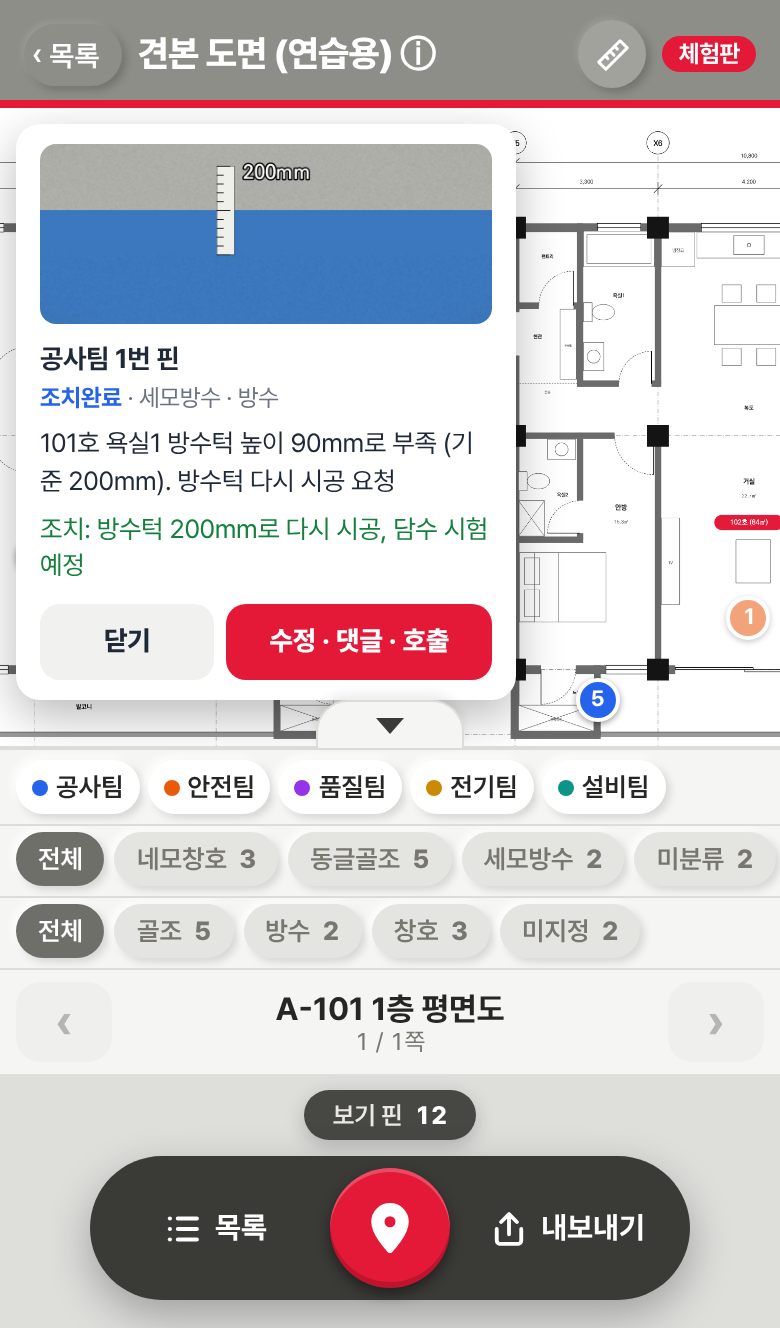
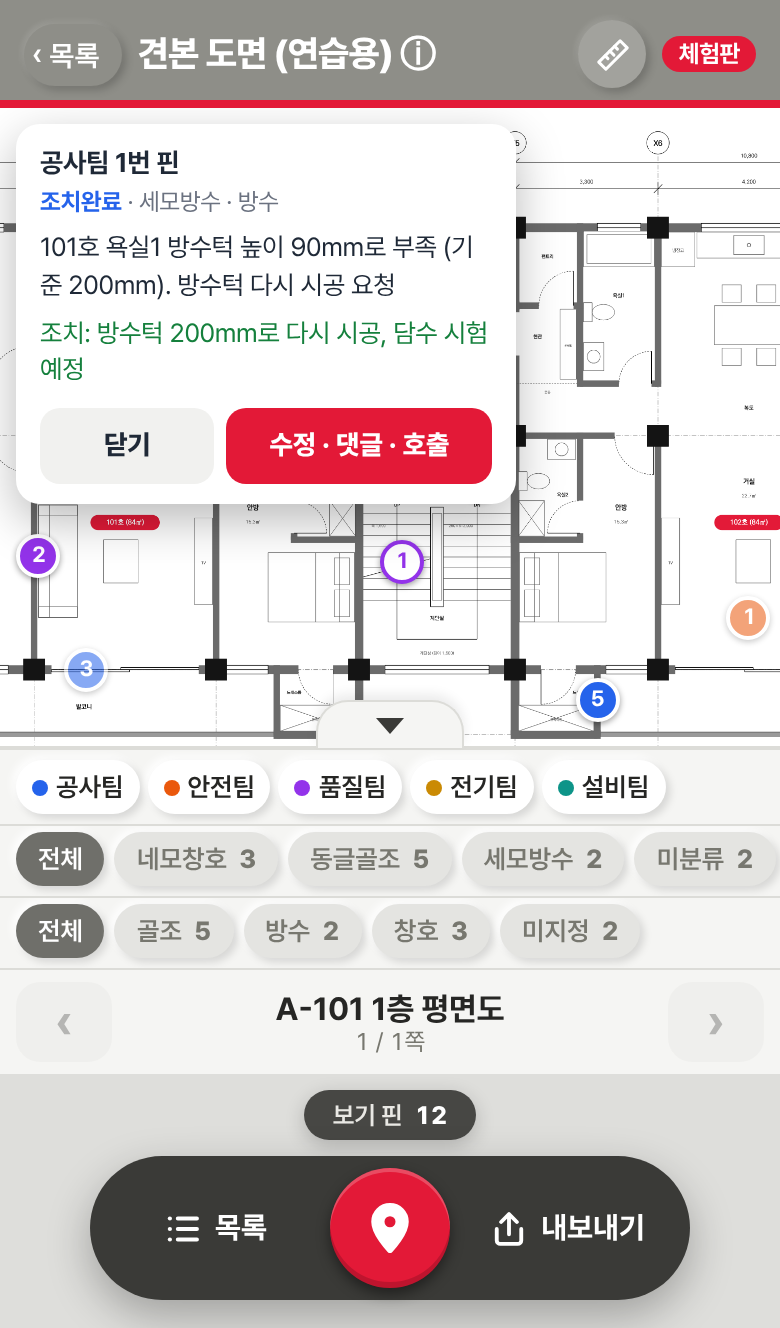
4.57 측정 점 옮길 때 원래 선 방향 점선 스냅, 핀 카드 사진 잘리지 않게 (#102)
Claude-Session: https://claude.ai/code/session_01EtHbhsZCrxUT5zDHCagWW6

Changed region(s): [[0.0, 0.0926, 0.6769, 0.5557]]

diff --git a/measure/index.html b/measure/index.html
@@ -591,6 +591,7 @@ function marker(x,p,type,k){
   if(type==="end"){ x.strokeRect(p.x-s,p.y-s,2*s,2*s); }
   else if(type==="int"){ x.beginPath(); x.moveTo(p.x-s,p.y-s); x.lineTo(p.x+s,p.y+s); x.moveTo(p.x+s,p.y-s); x.lineTo(p.x-s,p.y+s); x.stroke(); }
   else if(type==="on"){ x.beginPath(); x.arc(p.x,p.y,s*0.8,0,7); x.stroke(); }
+  else if(type==="dir"){ x.beginPath(); x.moveTo(p.x,p.y-s); x.lineTo(p.x+s,p.y); x.lineTo(p.x,p.y+s); x.lineTo(p.x-s,p.y); x.closePath(); x.stroke(); }
   else if(type==="perp"){ x.beginPath(); x.moveTo(p.x-s,p.y+s); x.lineTo(p.x+s,p.y+s); x.moveTo(p.x-s,p.y+s); x.lineTo(p.x-s,p.y-s); x.moveTo(p.x-s,p.y); x.lineTo(p.x,p.y); x.lineTo(p.x,p.y+s); x.stroke(); }
   if(type==="free"){ x.beginPath(); x.moveTo(p.x-12*k,p.y); x.lineTo(p.x+12*k,p.y); x.moveTo(p.x,p.y-12*k); x.lineTo(p.x,p.y+12*k); x.stroke(); }
   else { x.globalAlpha=.6; x.lineWidth=1; x.beginPath(); x.moveTo(p.x-14*k,p.y); x.lineTo(p.x-s-2,p.y); x.moveTo(p.x+s+2,p.y); x.lineTo(p.x+14*k,p.y); x.stroke(); }
@@ -653,8 +654,39 @@ stage.addEventListener("pointermove",e=>{
 function editAim(p){
   if(!g.moved){ if(Math.hypot(p.x-g.s.x,p.y-g.s.y)<6) return; g.moved=true; }
   const sp={x:p.x+g.off.x,y:p.y+g.off.y}, u=toU(sp.x,sp.y); S.hit=snapAt(u.x,u.y);
+  const dl=S.snap?dirSnap(u):null;
   if(S.sel) movePt(S.sel,g.i,S.hit,true);
-  draw(); if(!g.mouse){ loupe(sp,true); const x=$("#ov").getContext("2d"); x.save(); x.setTransform(dpr,0,0,dpr,0,0); x.strokeStyle="rgba(30,34,38,.35)"; x.setLineDash([3,3]); x.beginPath(); x.moveTo(p.x,p.y); x.lineTo(sp.x,sp.y+10); x.stroke(); x.restore(); } }
+  draw(); if(dl) dirLines(dl); if(!g.mouse){ loupe(sp,true); const x=$("#ov").getContext("2d"); x.save(); x.setTransform(dpr,0,0,dpr,0,0); x.strokeStyle="rgba(30,34,38,.35)"; x.setLineDash([3,3]); x.beginPath(); x.moveTo(p.x,p.y); x.lineTo(sp.x,sp.y+10); x.stroke(); x.restore(); } }
+/* 4.57 원래 선 방향 스냅: 고치는 점이 원래 선(면적은 이웃 변)의 연장선 가까이 오면 그 위에 붙이고 점선으로 보여 준다 */
+function dirGuides(){
+  const it=S.sel, o=g&&g.orig; if(!it||!o||g.mid) return [];
+  const L=[], add=(f,a,b)=>{ const dx=b.x-a.x, dy=b.y-a.y, l=Math.hypot(dx,dy); if(l>1e-9) L.push({p:f,d:{x:dx/l,y:dy/l}}); };
+  if(it.t==="dist"||it.t==="cal"){ const f=g.i===0?it.b:it.a; add(f,o.a,o.b); }
+  else if(it.t==="area"&&o.pts&&o.pts.length===it.pts.length&&it.pts.length>=3){ const n=it.pts.length, i=g.i, pv=(i+n-1)%n, nx=(i+1)%n;
+    add(it.pts[pv],o.pts[pv],o.pts[i]); add(it.pts[nx],o.pts[nx],o.pts[i]); }
+  return L;
+}
+function dirSnap(u){
+  const G=dirGuides(); if(!G.length) return null;
+  const h=S.hit; if(h&&(h.type==="end"||h.type==="int"||h.type==="perp")){ /* 이미 끝점·교차점에 붙었고 그게 연장선 위면 그대로 */
+    const on=G.filter(l=>Math.abs((h.x-l.p.x)*l.d.y-(h.y-l.p.y)*l.d.x)*S.Z<3); if(on.length) return on; }
+  const tol=14/S.Z, near=G.map(l=>({l,dist:Math.abs((u.x-l.p.x)*l.d.y-(u.y-l.p.y)*l.d.x)})).filter(o=>o.dist<tol).sort((a,b)=>a.dist-b.dist);
+  if(!near.length) return null;
+  if(near.length>=2){ const A=near[0].l, B=near[1].l, den=A.d.x*B.d.y-A.d.y*B.d.x;
+    if(Math.abs(den)>0.05){ const t=((B.p.x-A.p.x)*B.d.y-(B.p.y-A.p.y)*B.d.x)/den; S.hit={x:A.p.x+t*A.d.x,y:A.p.y+t*A.d.y,type:"dir",seg:-1}; return [A,B]; } }
+  const l=near[0].l, t=(u.x-l.p.x)*l.d.x+(u.y-l.p.y)*l.d.y; let q={x:l.p.x+t*l.d.x,y:l.p.y+t*l.d.y}, type="dir";
+  /* 연장선이 도면 선과 만나는 자리 가까이면 그 교차점에 붙인다 (길이를 벽까지 맞추기 좋게) */
+  if(h&&h.seg>=0){ const sg=S.segs, ax=sg[4*h.seg],ay=sg[4*h.seg+1],ex=sg[4*h.seg+2]-ax,ey=sg[4*h.seg+3]-ay, den=l.d.x*ey-l.d.y*ex;
+    if(Math.abs(den)>1e-9){ const s2=((ax-l.p.x)*ey-(ay-l.p.y)*ex)/den, ix=l.p.x+s2*l.d.x, iy=l.p.y+s2*l.d.y, w=((ix-ax)*ex+(iy-ay)*ey)/(ex*ex+ey*ey);
+      if(w>=-0.02&&w<=1.02&&Math.hypot(ix-u.x,iy-u.y)<24/S.Z){ q={x:ix,y:iy}; type="int"; } } }
+  S.hit={x:q.x,y:q.y,type,seg:-1}; return [l];
+}
+function dirLines(L){
+  const c=$("#ov").getContext("2d"), VW=c.canvas.width/dpr, VH=c.canvas.height/dpr, R=Math.hypot(VW,VH)*2;
+  c.save(); c.setTransform(dpr,0,0,dpr,0,0); c.strokeStyle="#0EA5E9"; c.lineWidth=1.5; c.setLineDash([7,5]); c.globalAlpha=.9;
+  for(const l of L){ const a=toS(l.p.x,l.p.y); c.beginPath(); c.moveTo(a.x-l.d.x*R,a.y-l.d.y*R); c.lineTo(a.x+l.d.x*R,a.y+l.d.y*R); c.stroke(); }
+  c.restore();
+}
 function aimAt(p){ const sp={x:p.x,y:p.y-LIFT}; const u=toU(sp.x,sp.y); S.hit=pick(u.x,u.y); draw(); loupe(sp,true);
   const x=$("#ov").getContext("2d"); x.save(); x.setTransform(dpr,0,0,dpr,0,0); x.strokeStyle="rgba(30,34,38,.35)"; x.setLineDash([3,3]); x.beginPath(); x.moveTo(p.x,p.y); x.lineTo(sp.x,sp.y+10); x.stroke(); x.restore(); }
 function up(e){

diff --git a/index.html b/index.html
@@ -61,7 +61,7 @@ header{position:relative}
 #vp{position:relative;z-index:0;isolation:isolate;flex:1;overflow:hidden;touch-action:none;background:#D1D5DB;-webkit-user-select:none;user-select:none;-webkit-touch-callout:none}
 .pin.hov{transform:scale(1.3);transform-origin:50% 36px;z-index:3;transition:transform .12s}   /* 4.36 컴퓨터: 마우스를 올린 핀 */
 #pinTip{position:absolute;z-index:6;width:240px;box-sizing:border-box;background:#fff;color:#1F2937;border-radius:12px;box-shadow:0 8px 24px rgba(0,0,0,.28);padding:10px 12px;font-size:13px;line-height:1.45;pointer-events:none}
-#pinTip img{display:block;width:100%;height:130px;object-fit:cover;border-radius:8px;background:#E5E7EB;margin-bottom:8px}
+#pinTip img{display:block;width:100%;height:130px;object-fit:contain;border-radius:8px;background:#E5E7EB;margin-bottom:8px}
 #pinTip b{display:block;font-size:13.5px}
 #pinTip .tst{font-size:12px;color:#6B7280;margin:1px 0 5px}
 #pinTip .tst i{font-style:normal;font-weight:700;color:var(--pc)}
@@ -71,7 +71,7 @@ header{position:relative}
 #pinTip small{display:block;margin-top:5px;color:#6B7280;font-size:12px}
 /* 4.56 휴대폰: 핀을 누르면 간단 정보 카드, '수정'으로 핀 창 */
 #pinTip.tap{pointer-events:auto;width:250px}
-#pinTip.tap img{height:90px}
+#pinTip.tap img{height:auto;max-height:110px;object-fit:contain}
 #pinTip .tbt{display:flex;gap:6px;margin-top:9px}
 #pinTip .tbt button{flex:1;border:0;border-radius:10px;padding:9px 6px;font:inherit;font-size:13.5px;font-weight:800;background:#F1F1EF;color:#1F2937}
 #pinTip .tbt button.pri{background:#E31937;color:#fff;flex:1.6}
@@ -1282,7 +1282,7 @@ i.lq>svg{position:absolute;left:0;top:0;width:100%;height:100%;overflow:visible}
 
 <script>
 "use strict";
-const APP_VER = "4.56";
+const APP_VER = "4.57";
 /* 3.97 체험판(/try/): 서버 없이 이 휴대폰에만 저장. 진짜 핀톡과 같은 주소(github.io)라서
    저장 공간이 섞이지 않게 도면 DB 이름을 따로 쓰고, localStorage 이름 앞에 "try:"를 붙인다 */
 const TRY=!!window.PINTALK_TRY;

diff --git a/sw.js b/sw.js
@@ -1,5 +1,5 @@
 // 핀톡(도면 핀) 앱: 오프라인에서도 열리도록 앱 파일을 저장해 둔다 (도면·핀 기록은 IndexedDB에 따로 저장됨)
-const CACHE = "pintalk-v181";
+const CACHE = "pintalk-v182";
 const FILES=["./","./index.html","./manifest.webmanifest","./icon-180.png","./icon-192.png","./icon-512.png","./dwg2pdf.js","./sample.pdf","lib/pdfjs.min.js","lib/pdfjs.worker.min.js","lib/pdf-lib.min.js","lib/fontkit.umd.min.js","fonts/KoPubDotum-Medium.ttf","fonts/PretendardVariable.woff2","lib/exceljs.min.js","tpl/crack.xlsx","lib/firebase-app-compat.js","lib/firebase-messaging-compat.js","try/","measure/","manifest-try.webmanifest"];
 self.addEventListener("install",e=>{e.waitUntil(caches.open(CACHE).then(c=>c.addAll(FILES.map(u=>new Request(u,{cache:"reload"})))));self.skipWaiting();});
 self.addEventListener("activate",e=>{e.waitUntil(caches.keys().then(ks=>Promise.all(ks.filter(k=>k.startsWith("pintalk-")&&k!==CACHE).map(k=>caches.delete(k)))));self.clients.claim();});
